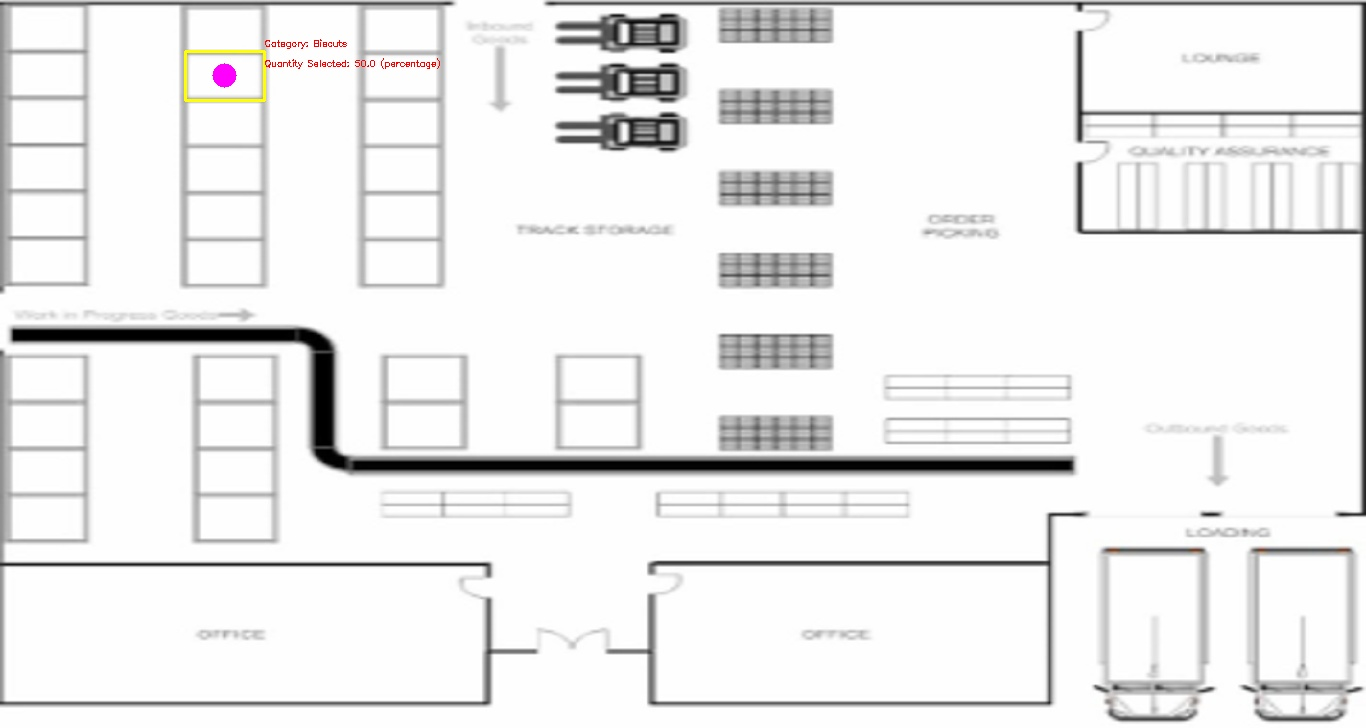
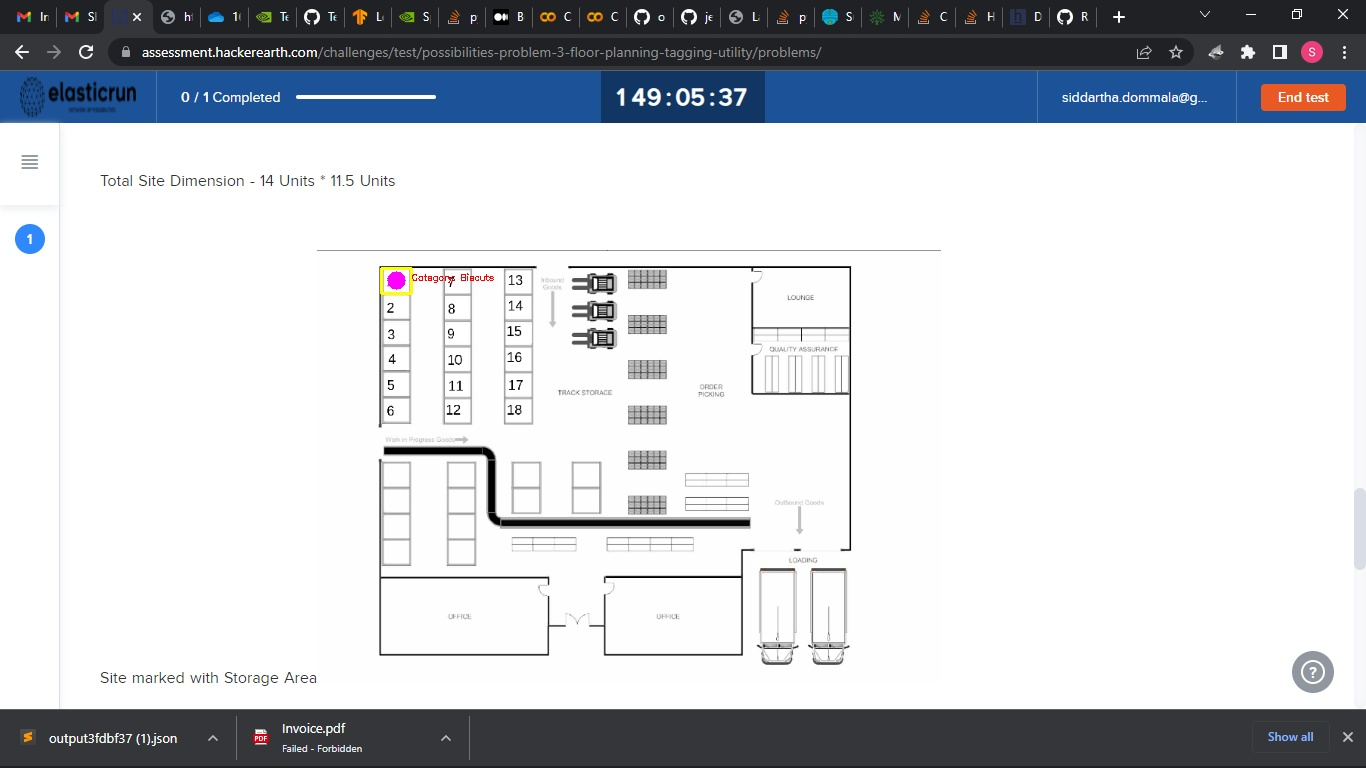
Final Partial changes

diff --git a/floor/static/js/invoice.js b/floor/static/js/invoice.js
@@ -93,14 +93,11 @@ function addProduct(id){
     var productQ = $(`#${id}-net`).val()
 
     currentInvoice['details'].map((ele,inx)=>{
-    console.log(id, ele.areaNumber)
-        if(ele.areaNumber == id && currentInvoice['details'][inx]['quantity'] >= productQ){
-            currentInvoice['details'][inx]["quantityR"] = productQ
+    console.log( currentInvoice['details'][inx]['quantity'], productQ)
+        if(ele.areaNumber == id){
+                currentInvoice['details'][inx]["quantityR"] = productQ
         }
-        else{
-            alert('Enter less number of units')
-            $(`#${id}-net`).val(0)
-        }
+
     })
 
     console.log(currentInvoice,"finalize")

diff --git a/floor/templates/upload.html b/floor/templates/upload.html
@@ -438,8 +438,8 @@
             async: false,
             data: data,
             complete: function (data) {
-                // location.reload();
-                console.log(file, ":::")
+                 location.reload();
+                //console.log(file, ":::")
             }
         });
     })

diff --git a/floor/Analytics.py b/floor/Analytics.py
@@ -18,7 +18,10 @@ def HeatMap(invoice_file = None, SKU_Storage_file = None, Floor_Map_Path = None)
 
    for idx, (IV, SKU) in enumerate(zip(invoice_data['details'], SKU_storage_data['details'])):
       if IV['areaNumber'] == SKU['areaNumber']:
-         HM_Ratio = int(IV['quantityR']) / int(SKU['quantity'])
+         if 'quantityR' in IV.keys():
+            HM_Ratio = int(IV['quantityR']) / int(SKU['quantity'])
+         else:
+            HM_Ratio = 0
          x1, y1, w, h = int(SKU['x0']), int(SKU['y0']), int(SKU['x1']), int(SKU['y1'])
          x1, y1, x2, y2 = int(x1 * ratioW), int(y1 * ratioH), int((x1 + w) * ratioW), int((y1 + h) * ratioH)
          cv2.rectangle(image, (x1, y1), (x2, y2), (0,255, 255), 2)
@@ -31,17 +34,17 @@ def HeatMap(invoice_file = None, SKU_Storage_file = None, Floor_Map_Path = None)
          if HM_Ratio:
             cv2.circle(image, (CX, CY), int(P * HM_Ratio), (255, 0, 255), -1)
             cv2.putText(image, "Category: %s " % IV['areaNumber'],
-                     (x2, y1 - 5), cv2.FONT_HERSHEY_SIMPLEX, 0.3, (0, 0, 255), thickness=1)
-            cv2.putText(image,
-                        "Quantity Selected: %s (percentage)" % str(HM_Ratio * 100),
-                        (x2, y1 + 15), cv2.FONT_HERSHEY_SIMPLEX, 0.3, (0, 0, 255), thickness=1)
+                     (x2, CY), cv2.FONT_HERSHEY_SIMPLEX, 0.3, (0, 0, 255), thickness=1)
+            # cv2.putText(image,
+                        # "Quantity Selected: %s (percentage)" % str(int(HM_Ratio * 100)),
+                        # (x2, y1 + 35), cv2.FONT_HERSHEY_SIMPLEX, 0.3, (0, 0, 255), thickness=1)
          else:
             cv2.circle(image, (CX, CY), int(P * HM_Ratio), (255, 0, 255), -1)
             cv2.putText(image, "Category: %s " % IV['areaNumber'],
-                        (x2, y1 - 5), cv2.FONT_HERSHEY_SIMPLEX, 0.3, (0, 0, 255), thickness=1)
-            cv2.putText(image,
-                        "Quantity Selected: %s (percentage)" % str(HM_Ratio * 100),
-                        (x2, y1 + 15), cv2.FONT_HERSHEY_SIMPLEX, 0.3, (0, 0, 255), thickness=1)
+                        (x2, CY), cv2.FONT_HERSHEY_SIMPLEX, 0.3, (0, 0, 255), thickness=1)
+            # cv2.putText(image,
+            #             "Quantity Selected: %s (percentage)" % str(int(HM_Ratio * 100)),
+            #             (x2, y1 + 35), cv2.FONT_HERSHEY_SIMPLEX, 0.3, (0, 0, 255), thickness=1)
       else:
          continue
 
